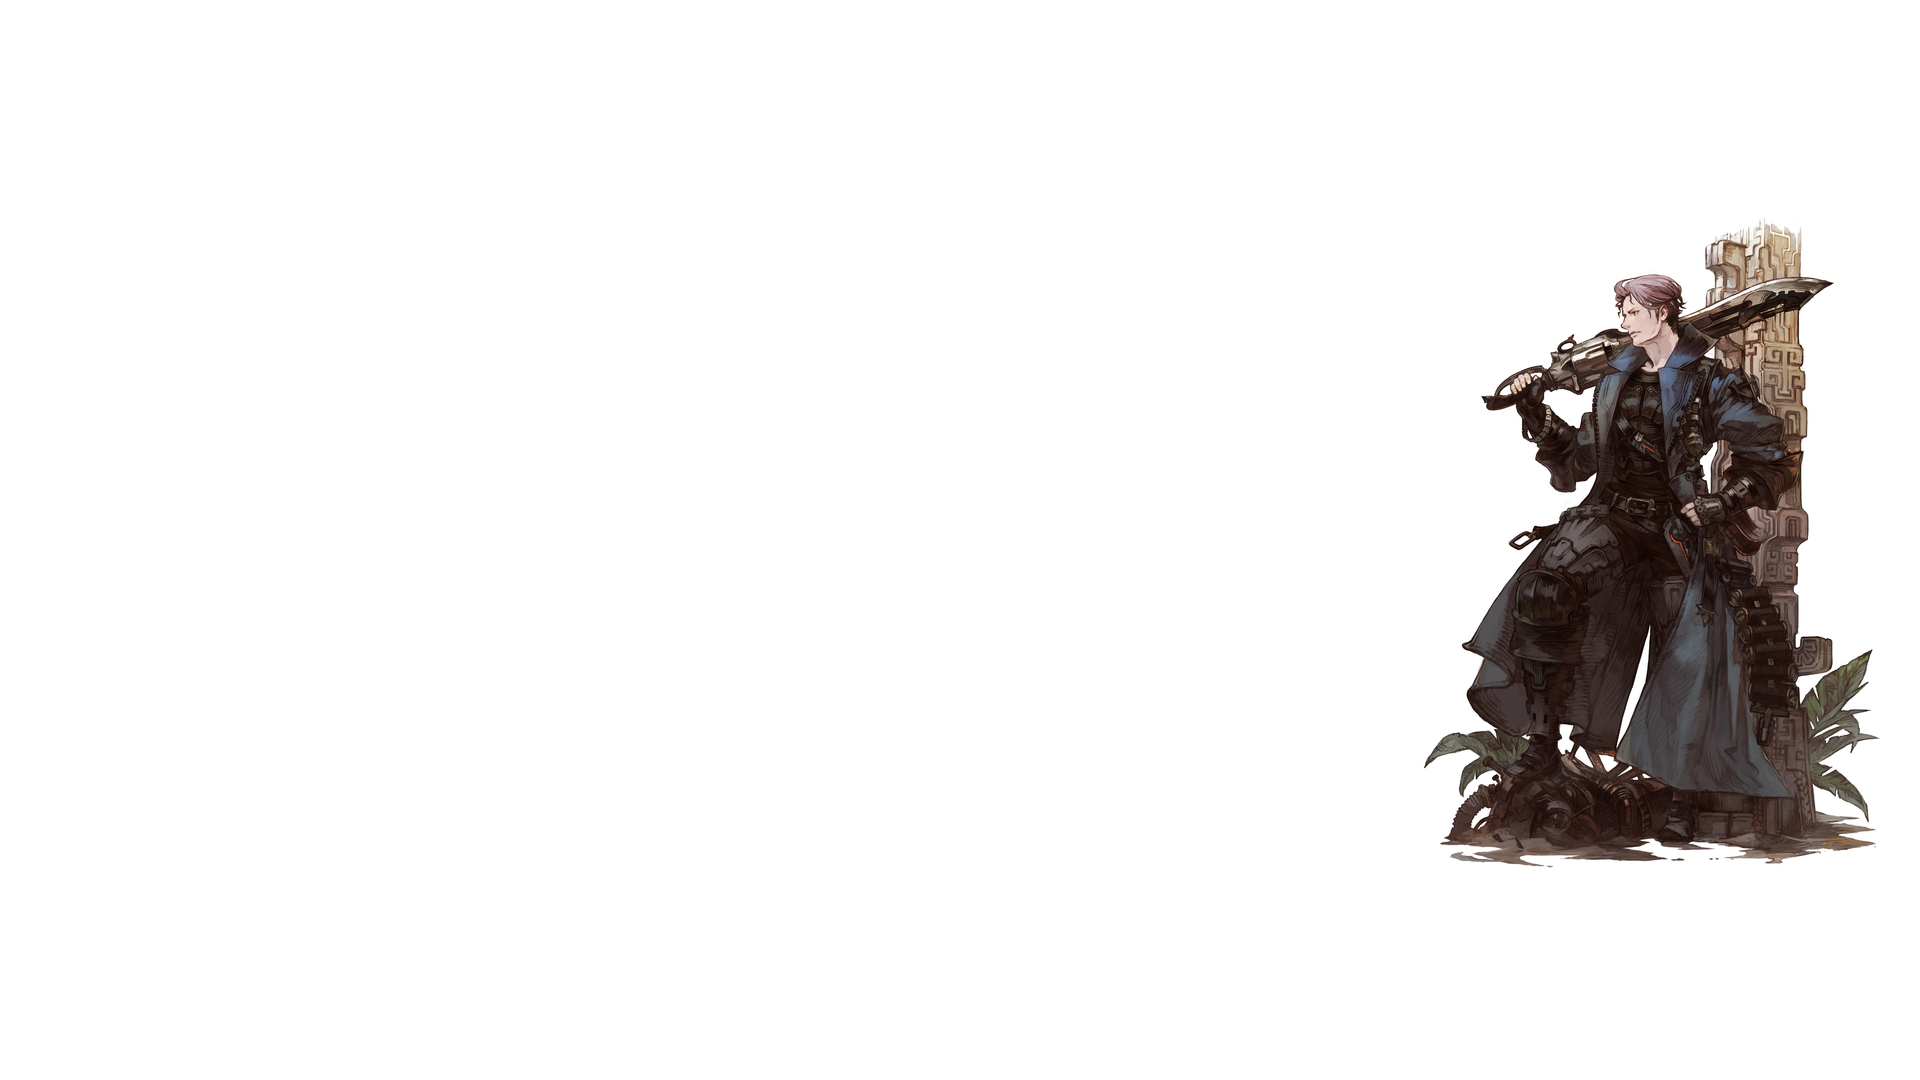
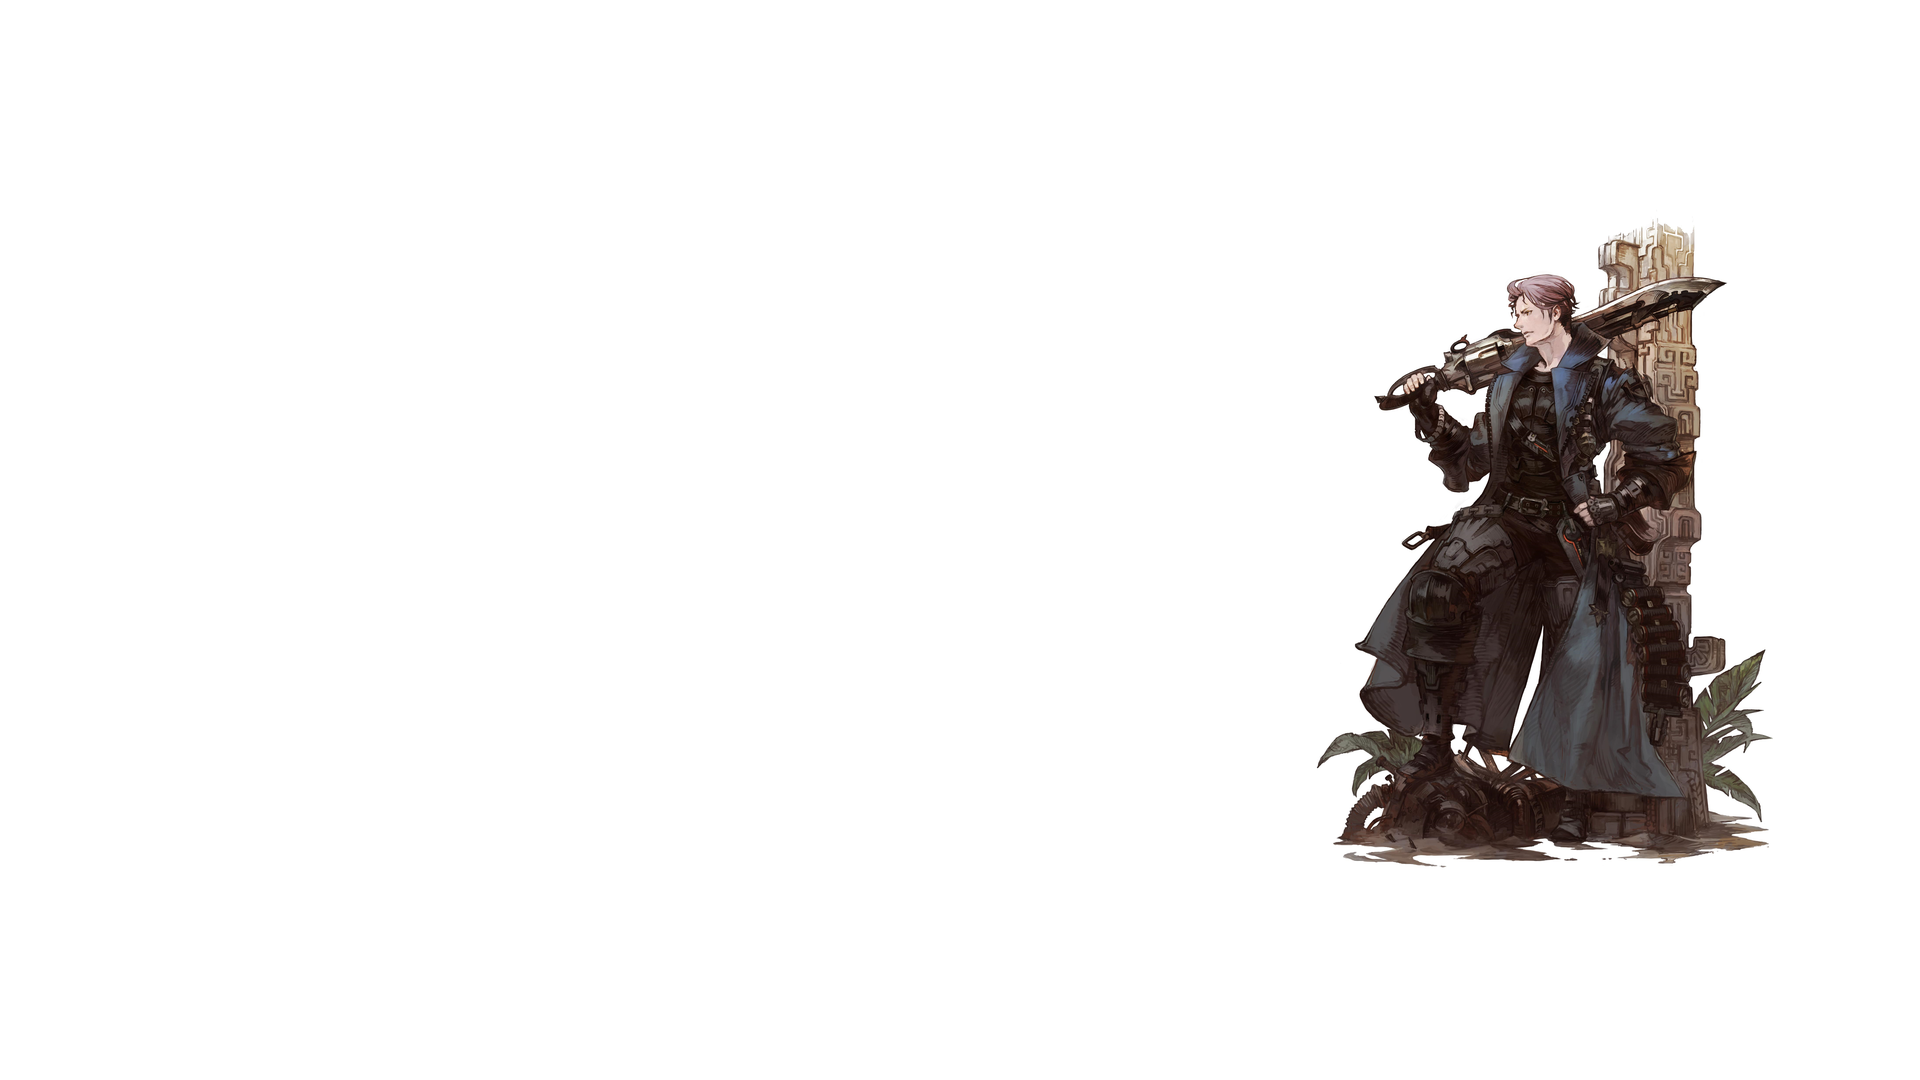
Add Keen Edge to the starting deck, fix select-screen image cropping
- Keen Edge was registered into the pool but never added as a starter
  card, so it never appeared in an actual run's deck (confirmed via
  game log: only Strike_GNB/Defend_GNB showed as starter cards even
  though all 3 combo cards registered fine into GunbreakerCardPool).
  Defaulting to 1 starting copy, matching how vanilla Ironclad's
  signature attack (Bash) gets exactly 1 copy alongside Strike/Defend -
  the design sheet doesn't give an explicit count for this one like it
  does for Strike_GNB/Defend_GNB, so this needs confirmation.
- Roster/HUD icon was a wide top-anchored crop that included a lot of
  background above the head, making the subject look small compared to
  other characters' tightly-cropped icons. Replaced with a proper
  head-and-shoulders crop read directly off the source art.
- Recentered the large select-screen background instead of hugging the
  right edge.

Changed region(s): [[0.6875, 0.2139, 0.9688, 0.825]]

diff --git a/GunbreakerMod/GunbreakerModCode/Cards/KeenEdge.cs b/GunbreakerMod/GunbreakerModCode/Cards/KeenEdge.cs
@@ -1,3 +1,4 @@
+using GunbreakerMod.GunbreakerModCode.Characters;
 using MegaCrit.Sts2.Core.Commands;
 using MegaCrit.Sts2.Core.Entities.Cards;
 using MegaCrit.Sts2.Core.GameActions.Multiplayer;
@@ -9,7 +10,12 @@ using STS2RitsuLib.Scaffolding.Content;
 namespace GunbreakerMod.GunbreakerModCode.Cards;
 
 // 利刃斩 Keen Edge - basic combo opener. Generates Brutal Shell into hand on play.
+// Starter count: the design sheet doesn't give an explicit count for this one (unlike
+// Strike_GNB "起始卡组3张" / Defend_GNB "4张"), just "起始牌库买一送二，牌库里只有1".
+// Defaulting to 1 copy, mirroring how vanilla Ironclad's signature attack (Bash) gets exactly
+// 1 starting copy alongside Strike/Defend - please correct the count if that's not what you meant.
 [RegisterCard(typeof(GunbreakerCardPool))]
+[RegisterCharacterStarterCard(typeof(Gunbreaker), 1)]
 public sealed class KeenEdge() : ModCardTemplate(1, CardType.Attack, CardRarity.Basic, TargetType.AnyEnemy)
 {
     public override CardAssetProfile AssetProfile => new()
